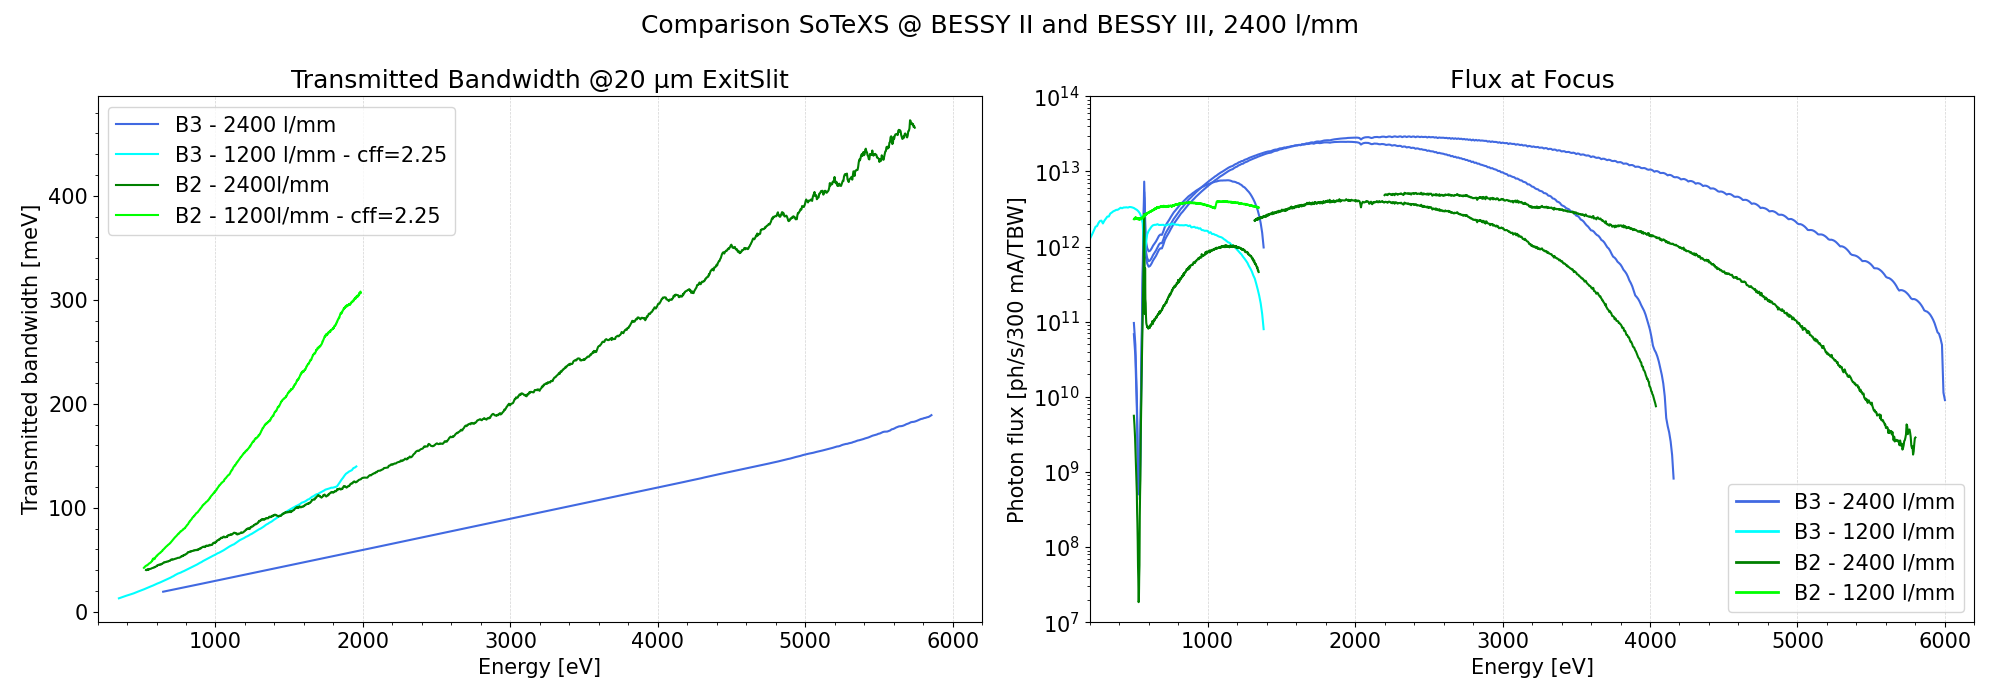
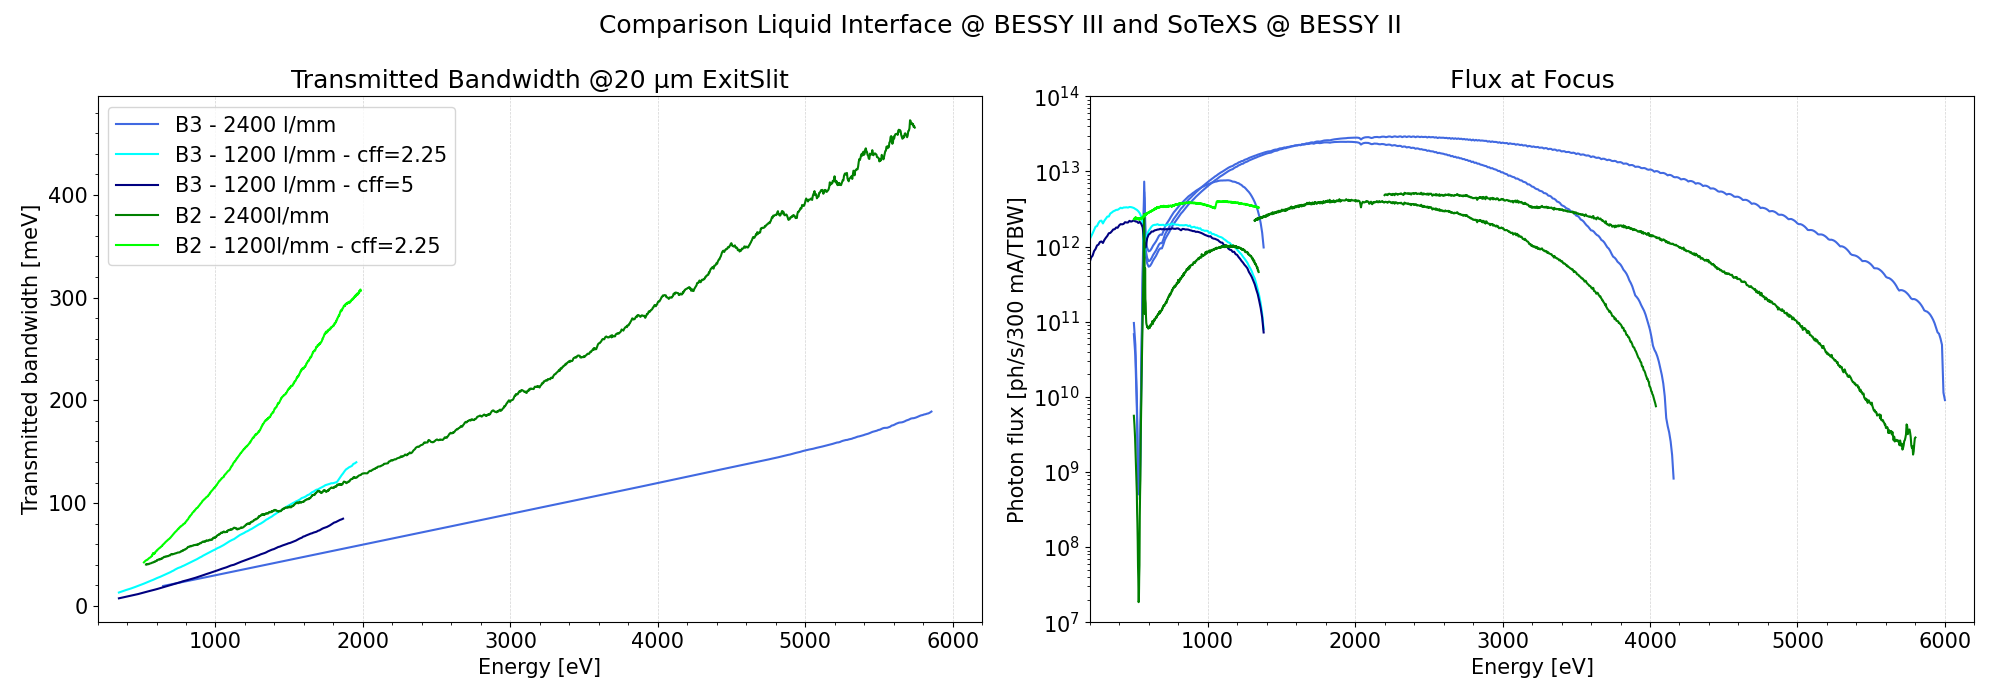
eval

diff --git a/beamlines/Signature2-Liquid_Interface/simulations/comparison_with_sotexs_BII/eval_2400_talk.py b/beamlines/Signature2-Liquid_Interface/simulations/comparison_with_sotexs_BII/eval_2400_talk.py
@@ -134,7 +134,7 @@ plt.close()
 
 ###################################################
 fig, (axs) = plt.subplots(1, 2, figsize=(20, 7))
-fig.suptitle('Comparison SoTeXS @ BESSY II and BESSY III, 2400 l/mm')
+fig.suptitle('Comparison Liquid Interface @ BESSY III and SoTeXS @ BESSY II')
 
 
 # TRANSMITTED BANDWIDTH
@@ -153,6 +153,12 @@ ax3.plot(mov_av(BL_df_1200['PhotonEnergy'], window),
              linestyle='solid',
              label=f'B3 - 1200 l/mm - cff=2.25',
              color='cyan')
+
+ax3.plot(mov_av(BL_df_1200_5['PhotonEnergy'], window), 
+             mov_av(BL_df_1200_5['Bandwidth']*1000, window),
+             linestyle='solid',
+             label=f'B3 - 1200 l/mm - cff=5',
+             color='navy')
 
 ax3.plot(mov_av(BL_df_2['PhotonEnergy'], window), 
              mov_av(BL_df_2['Bandwidth']*1000, window),
@@ -196,7 +202,15 @@ for ind,harm in enumerate([1]):
              mov_av(filtered_df[f'PhotonFlux{harm}'], window),
              color='cyan', linestyle='solid',
              label=f'B3 1200 l/mm')
-    
+
+for ind,harm in enumerate([1]):
+    Emin_harm = undulator_3[f'Energy{harm}[eV]'].min()
+    Emax_harm = undulator_3[f'Energy{harm}[eV]'].max()
+    filtered_df = BL_df_1200_5[(BL_df_1200_5['PhotonEnergy'] >= Emin_harm) & (BL_df_1200_5['PhotonEnergy'] <= Emax_harm)]
+    ax4.plot(mov_av(filtered_df['PhotonEnergy'], window), 
+             mov_av(filtered_df[f'PhotonFlux{harm}'], window),
+             color='navy', linestyle='solid',
+             label=f'B3 1200 l/mm - cff 5')    
     
 for ind,harm in enumerate(harms):    
     Emin_harm = undulator_2[f'Energy{harm}[eV]'].min()
@@ -226,7 +240,7 @@ custom_lines = [
     Line2D([0], [0], color='lime', linestyle='solid', lw=2)
 ]
 
-ax4.legend(custom_lines, ['B3 - 2400 l/mm', 'B3 - 1200 l/mm', 'B2 - 2400 l/mm', 'B2 - 1200 l/mm'], loc='best')
+# ax4.legend(custom_lines, ['B3 - 2400 l/mm', 'B3 - 1200 l/mm', 'B2 - 2400 l/mm', 'B2 - 1200 l/mm'], loc='best')
 ax4.set_xlim(x_range)
 ax4.minorticks_on()
 ax4.grid(which='major', axis='x', linestyle='--', linewidth=0.5, color='lightgrey')
@@ -244,7 +258,7 @@ plt.close()
 
 ###################################################
 fig, (axs) = plt.subplots(1, 2, figsize=(20, 7))
-fig.suptitle('Comparison SoTeXS @ BESSY II and BESSY III, 2400 l/mm')
+fig.suptitle('Comparison Liquid Interface @ BESSY III and SoTeXS @ BESSY II')
 
 
 # TRANSMITTED BANDWIDTH
@@ -352,7 +366,7 @@ custom_lines = [
     Line2D([0], [0], color='lime', linestyle='solid', lw=2)
 ]
 
-ax4.legend(custom_lines, ['B3 - 2400 l/mm', 'B3 - 1200 l/mm', 'B2 - 2400 l/mm', 'B2 - 1200 l/mm'], loc='best')
+# ax4.legend(custom_lines, ['B3 - 2400 l/mm', 'B3 - 1200 l/mm', 'B2 - 2400 l/mm', 'B2 - 1200 l/mm'], loc='best')
 ax4.set_xlim(x_range)
 ax4.minorticks_on()
 ax4.grid(which='major', axis='x', linestyle='--', linewidth=0.5, color='lightgrey')
